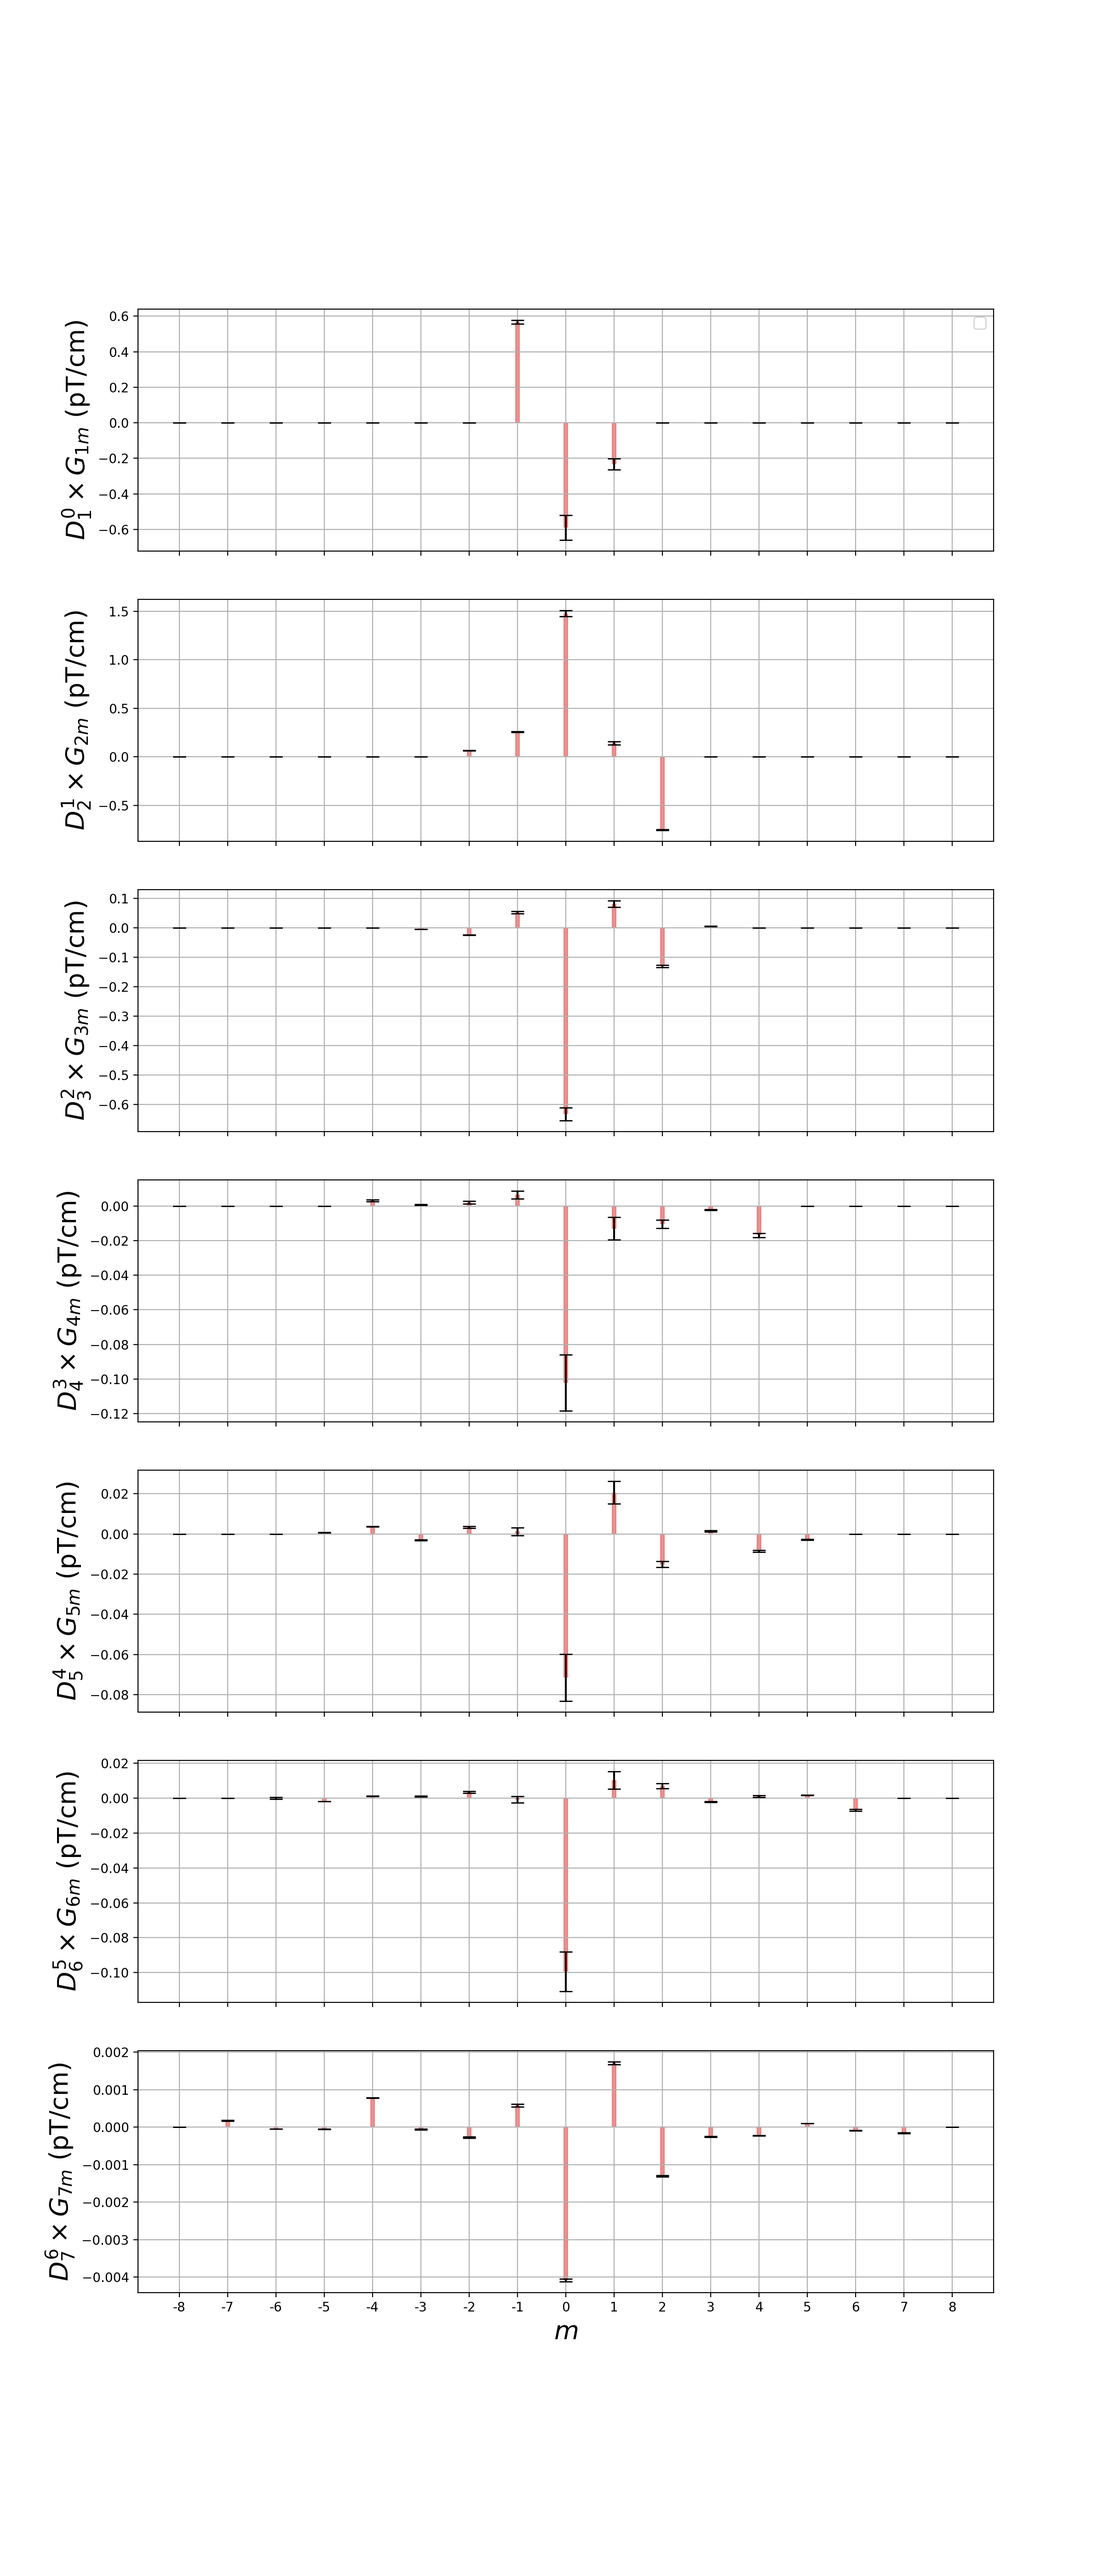
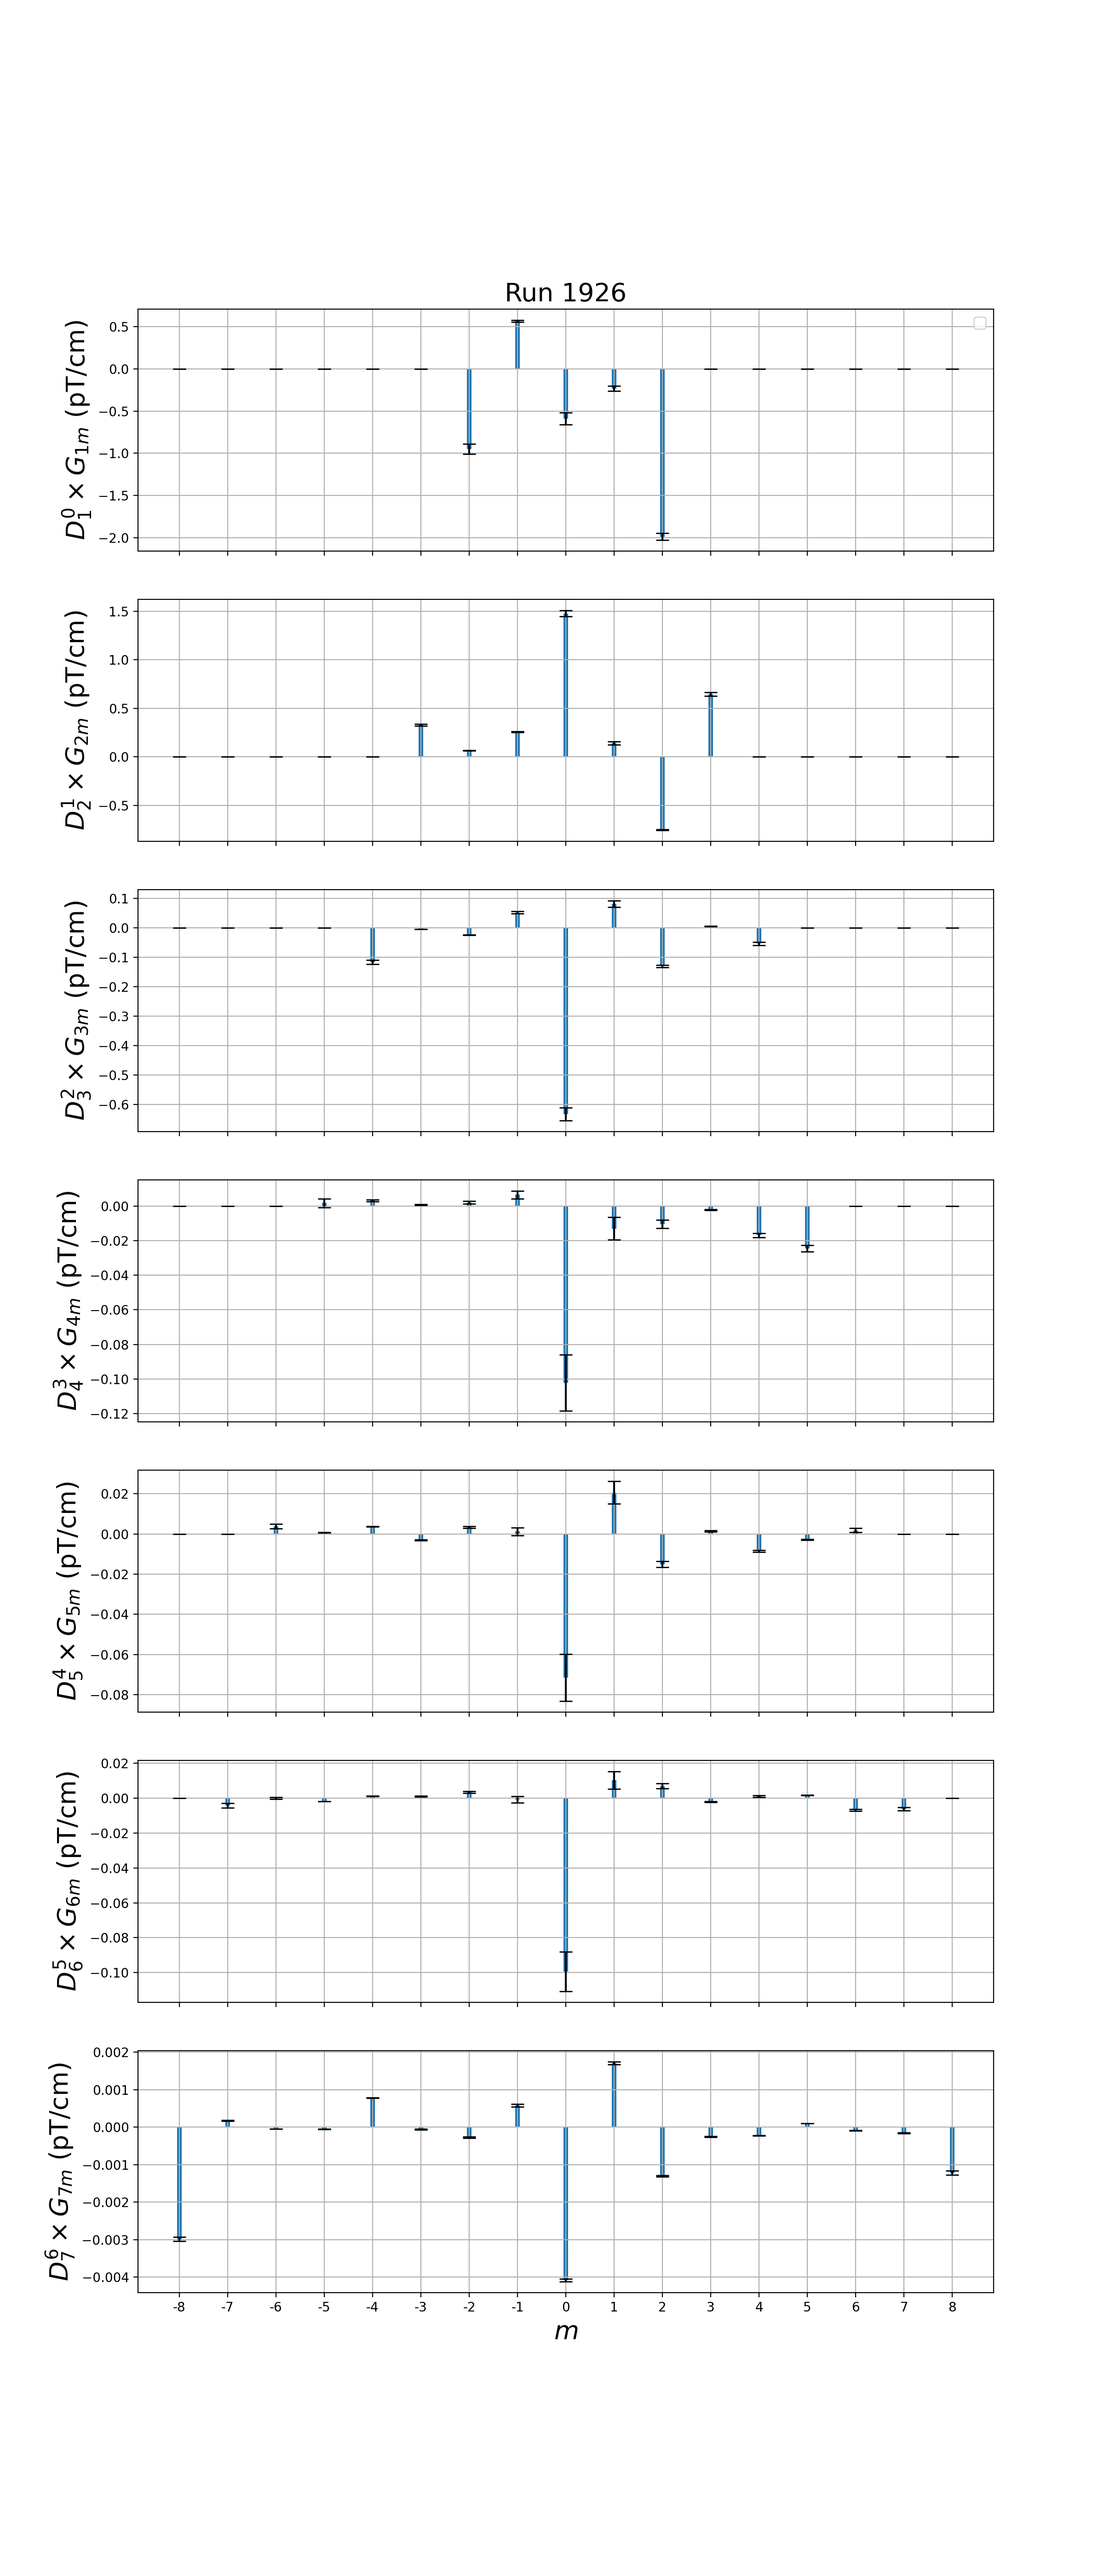
plotted and added plot script

diff --git a/scripts/cyclePlot.py b/scripts/cyclePlot.py
@@ -1,0 +1,41 @@
+import numpy as np
+import matplotlib.pyplot as plt
+import os.path
+import sys
+
+from map_tools import *
+from map_cycle import *
+
+
+### edit plot parameters here:
+plt.rcParams["font.size"]=10
+plt.rcParams["lines.markersize"]=3
+plt.rcParams["figure.figsize"]=[12, 6]
+plt.rcParams["figure.dpi"]=100
+
+############################
+### 4 SCRIPT ARGUMENTS
+run = int(sys.argv[1])
+cyc = int(sys.argv[2])
+xlabel = str(sys.argv[3])
+ylabel = str(sys.argv[4])
+
+### create a Cycle object with a run number, a cycle number, and the current data format.
+some_cycle = Cycle(run, cyc, dtformat='v4_PhiZswap')
+### /!\ note on data format: use 'v4' for the original fluxgate orientation (up to runs 18**)
+### and 'v4_PhiZswap' for the 90° flip of the original that is currently being used (runs 19**+).
+### /!\ note on maps directory: Cycle looks for maps in "../maps_bin/"
+
+### fluxgate data is stored in numy arrays some_cycle.x with x = t, rho, phi, z, Brho, Bphi, Bz.
+### unit is (s) for t, (cm) for rho.., (pT) for Brho....
+print("This is a {} scan at rho={:.0f}cm, z={:.0f}cm".format(some_cycle.scantype, some_cycle.rho[0], some_cycle.z[0]))
+
+### use the simplePlot method for a straightforward plot:
+fig, ax = some_cycle.simplePlot(xlabel, ylabel, fontsize=15)
+### possible xlabels and ylabels: 't', 'rho', 'phi', 'z', 'Brho', 'Bphi', 'Bz'.
+#i=0
+#while os.path.exists("../plots/cycleplot_run{}_cyc{}_{}.png".format(run, i)):
+    #i+=1
+plt.savefig("../plots/cycleplot_run{}_cyc{}_{}vs{}.png".format(run, cyc, xlabel, ylabel), dpi=200)
+
+plt.show()

diff --git a/scripts/GlmPlot.py b/scripts/GlmPlot.py
@@ -7,6 +7,10 @@ from map_tools import *
 from map_cycle import *
 from map_run import *
 
+#####################################################
+### usage: python3 GlmPlot.py run_number1 run_number2
+### saves a spectrum plot of the two runs in ../plots
+
 run1 = int(sys.argv[1])
 Gs1 = np.load("../data/spectrum_run{}_lmax7.npy".format(run1), allow_pickle=True)
 G1 = Gs1.item()['mainly_z']
@@ -31,13 +35,13 @@ for l in range(1, lmax0+1):
     L = abs(vars(Geometry)['D{}'.format(l)])
     for m in M:
         if l0==0 and m==0:
-            axs[l0].bar(m, L*G1[l][7+1+m], color='tab:green', width=dm)
+            axs[l0].bar(m, L*G1[l][7+1+m], color='green', alpha=0.5, width=dm)
             if len(sys.argv)>1:
-                axs[l0].bar(m+dm, L*G2[l][7+1+m], color='tab:blue', width=dm)
+                axs[l0].bar(m+dm, L*G2[l][7+1+m], color='blue', alpha=0.5, width=dm)
         else:
-            axs[l0].bar(m, L*G1[l][7+1+m], color='tab:green', width=dm)
+            axs[l0].bar(m, L*G1[l][7+1+m], color='green', alpha=0.5, width=dm)
             if len(sys.argv)>1:
-                axs[l0].bar(m+dm, L*G2[l][7+1+m], color='tab:blue', width=dm)
+                axs[l0].bar(m+dm, L*G2[l][7+1+m], color='blue', alpha=0.5, width=dm)
     axs[l0].grid()
     #axs[l0].locator_params(axis='y', nbins=5)
     axs[l0].set_ylabel(r"$D_{{{}}}^{{{}}} \times G_{{ {}m }}$ (pT/cm)".format(l, l-1, l), size=20)

diff --git a/scripts/GlmExtraction.py b/scripts/GlmExtraction.py
@@ -7,6 +7,10 @@ from map_tools import *
 from map_cycle import *
 from map_run import *
 
+################################################################################################
+### usage: python3 GlmExtraction.py run_number maximum_l
+### saves a numpy array containing Glm spectra from z, rho, and z-rho probes combined in ../data
+### as well as a spectrum plot in ../plots
 
 run = int(sys.argv[1])
 lmax = int(sys.argv[2])
